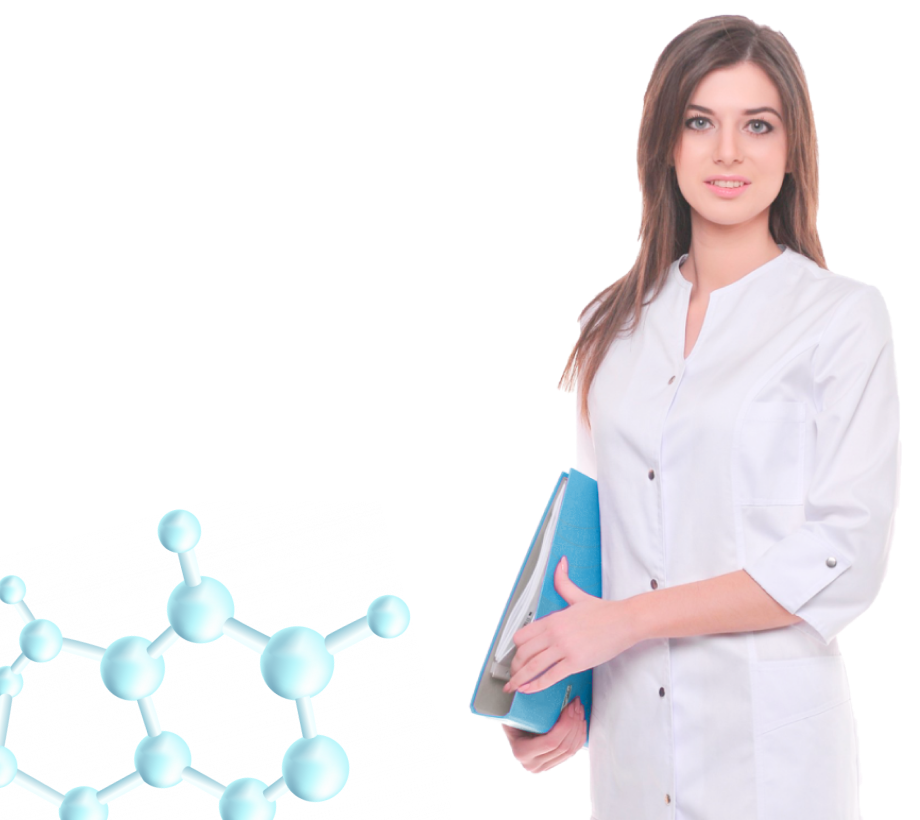
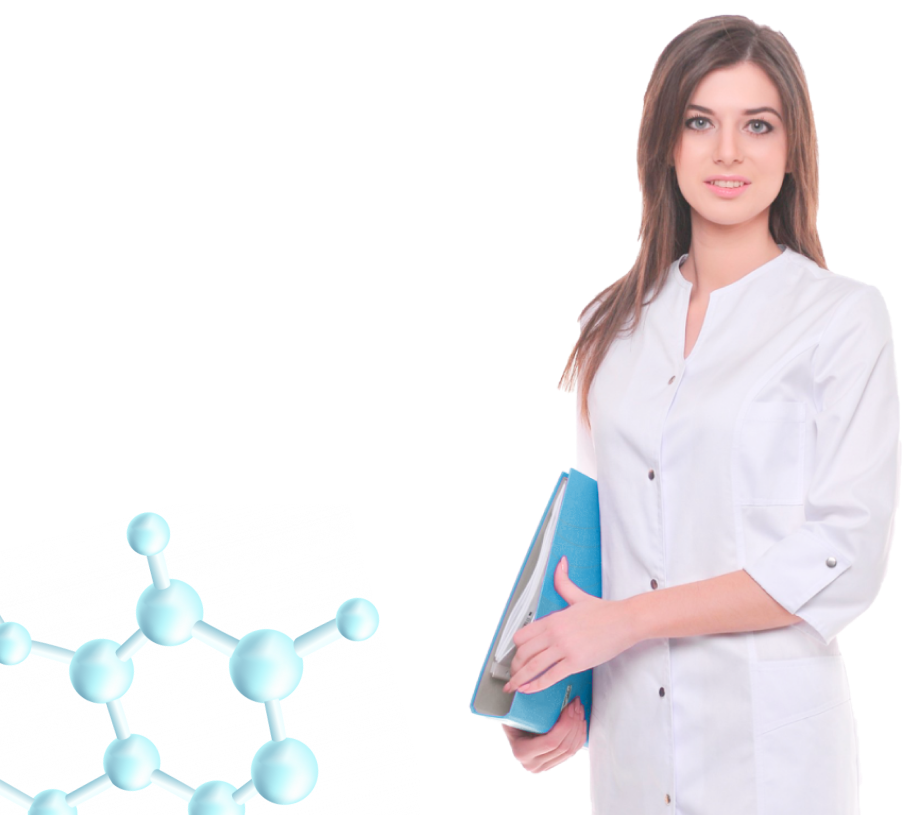
Add files via upload

diff --git a/style/style.css b/style/style.css
@@ -38,9 +38,11 @@ html {
 }
 
 header {
-  padding: 50rem 0;
+  padding: 32rem 0;
+  width: 100%;
   position: fixed;
   z-index: 9;
+  background: #DEDEDE;
 }
 
 .wraper-for-mob-menu {
@@ -334,7 +336,7 @@ header {
   position: absolute;
   bottom: 0;
   left: 0;
-  height: 578rem;
+  height: 540rem;
   z-index: -1;
 }
 
@@ -363,7 +365,6 @@ header {
   display: grid;
   grid-template-columns: 400rem 443rem;
   grid-gap: 40rem;
-  height: -webkit-fit-content;
   height: -moz-fit-content;
   height: fit-content;
   position: relative;
@@ -439,7 +440,6 @@ header {
   font-family: "Raleway", sans-serif;
   font-size: 12rem;
   letter-spacing: 0.05em;
-  height: -webkit-fit-content;
   height: -moz-fit-content;
   height: fit-content;
   border-radius: 100rem;
@@ -648,7 +648,6 @@ header {
 
 .fourth__left {
   margin-right: 345rem;
-  width: -webkit-fit-content;
   width: -moz-fit-content;
   width: fit-content;
   margin-top: 50rem;
@@ -826,8 +825,7 @@ header {
 }
 
 .contacts__left {
-  margin-top: 50rem;
-  width: -webkit-fit-content;
+  margin-top: 67rem;
   width: -moz-fit-content;
   width: fit-content;
 }
@@ -844,29 +842,29 @@ header {
 .contacts__left__adress {
   font-weight: 600;
   color: #393C44;
-  font-size: 16rem;
+  font-size: 20rem;
   margin-bottom: 5rem;
   line-height: 130.79%;
 }
 
 .contacts__left__adress-name {
   font-family: "Montserrat", sans-serif;
-  font-size: 16rem;
+  font-size: 20rem;
   color: #393C44;
   line-height: 153.4%;
-  margin-bottom: 25rem;
+  margin-bottom: 20rem;
 }
 
 .contacts__left__grid {
   display: grid;
-  grid-template-columns: 251rem 300rem;
-  -moz-column-gap: 40rem;
-       column-gap: 40rem;
+  grid-template-columns: 251rem 370rem;
+  -moz-column-gap: 153rem;
+       column-gap: 153rem;
   row-gap: 25rem;
 }
 
 .contacts__item__title {
-  font-size: 16rem;
+  font-size: 20rem;
   font-weight: 600;
   color: #393C44;
   line-height: 130.79%;
@@ -875,7 +873,7 @@ header {
 
 .contacts__item__text {
   font-family: "Montserrat", sans-serif;
-  font-size: 16rem;
+  font-size: 20rem;
   color: #393C44;
   line-height: 153.4%;
 }
@@ -947,7 +945,7 @@ header {
 
 .maps {
   width: 100vw;
-  height: 300rem;
+  height: 390rem;
   position: absolute;
   bottom: 0;
   left: 0;
@@ -966,6 +964,10 @@ header {
 }
 .anim-slie.swiper-slide-next .anim-item {
   transform: translateY(-50%);
+}
+
+.first__second__bg {
+  height: 795rem;
 }
 
 @media (max-width: 1200px) {
@@ -1325,7 +1327,6 @@ header {
   .fourth__right {
     width: 100%;
     padding: 60rem 30rem;
-    height: -webkit-fit-content;
     height: -moz-fit-content;
     height: fit-content;
   }
@@ -1628,7 +1629,6 @@ header {
   .form-spec {
     grid-template-columns: 1fr;
     row-gap: 5rem;
-    height: -webkit-fit-content;
     height: -moz-fit-content;
     height: fit-content;
   }

diff --git a/style/style.scss b/style/style.scss
@@ -74,9 +74,11 @@ html {
 }
 
 header {
-    padding: 50rem 0;
+    padding: 32rem 0;
+    width: 100%;
     position: fixed;
     z-index: 9;
+    background: #DEDEDE;
 }
 
 .wraper-for-mob-menu {
@@ -381,7 +383,7 @@ header {
     position: absolute;
     bottom: 0;
     left: 0;
-    height: 578rem;
+    height: 540rem;
     z-index: -1;
 }
 
@@ -864,7 +866,7 @@ header {
 }
 
 .contacts__left {
-    margin-top: 50rem;
+    margin-top: 67rem;
     width: fit-content;
 }
 
@@ -880,28 +882,28 @@ header {
 .contacts__left__adress {
     font-weight: 600;
     color: $gray;
-    font-size: $s16;
+    font-size: 20rem;
     margin-bottom: 5rem;
     line-height: 130.79%;
 }
 
 .contacts__left__adress-name {
     font-family: $Montserrat;
-    font-size: $s16;
+    font-size: 20rem;
     color: $gray;
     line-height: 153.4%;
-    margin-bottom: 25rem;
+    margin-bottom: 20rem;
 }
 
 .contacts__left__grid {
     display: grid;
-    grid-template-columns: 251rem 300rem;
-    column-gap: 40rem;
+    grid-template-columns: 251rem 370rem;
+    column-gap: 153rem;
     row-gap: 25rem;
 }
 
 .contacts__item__title {
-    font-size: $s16;
+    font-size: 20rem;
     font-weight: 600;
     color: $gray;
     line-height: 130.79%;
@@ -910,7 +912,7 @@ header {
 
 .contacts__item__text {
     font-family: $Montserrat;
-    font-size: $s16;
+    font-size: 20rem;
     color: $gray;
     line-height: 153.4%;
     
@@ -984,7 +986,7 @@ header {
 
 .maps {
     width: 100vw;
-    height: 300rem;
+    height: 390rem;
     position: absolute;
     bottom: 0;
     left: 0;
@@ -1009,6 +1011,12 @@ header {
         }
 
     }
+}
+
+//правки
+
+.first__second__bg {
+    height: 795rem;
 }
 
 

diff --git a/index.html b/index.html
@@ -6,7 +6,7 @@
     <meta http-equiv="X-UA-Compatible" content="IE=edge">
     <meta name="viewport" content="width=device-width, initial-scale=1.0">
     <title>Perflёr</title>
-    <link rel="stylesheet" href="./style/swiper-bundle.min.css">
+    <link rel="stylesheet" href="https://cdn.jsdelivr.net/npm/swiper@8/swiper-bundle.min.css">
     <link rel="stylesheet" href="style/style.css">
 </head>
 
@@ -404,6 +404,7 @@
                 </div>
             </div>
             <div class="swiper-slide fivth  anim-slie" data-hash="contacts">
+                <!-- <img src="./media/4slide/asdasd.png" alt="" class="check"> -->
                 <div class="container contacts__wraper">
                     <div class="contacts__left">
                         <h3 class="contacts__left__title">
@@ -556,7 +557,7 @@
             </div>
         </div>
     </div>
-    <script src="js/swiper-bundle.min.js"></script>
+    <script src="https://cdn.jsdelivr.net/npm/swiper@8/swiper-bundle.min.js"></script>
     <script src="js/app.js"></script>
 </body>
 

diff --git a/js/app.js b/js/app.js
@@ -17,6 +17,7 @@ const swiper = new Swiper('.sliderOp', {
     },
     touchRatio: .5,
     sensitivity: 10,
+    watchSlidesProgress: true,
 });
 
 //слайдер в первом слайде
